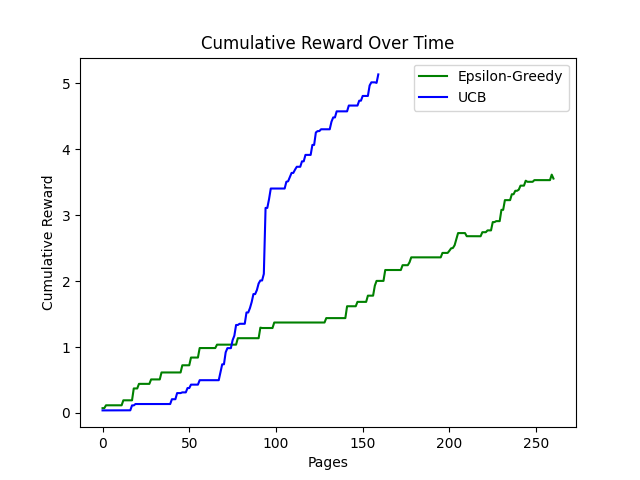
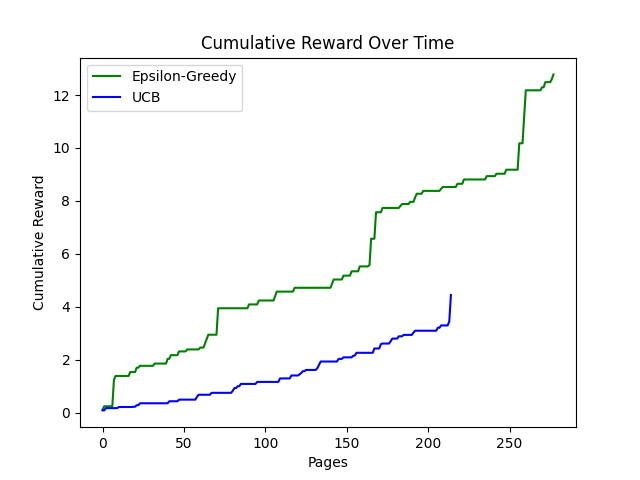
25.10.2024_09.15

diff --git a/webpage_crawler.py b/webpage_crawler.py
@@ -8,6 +8,7 @@ import os
 
 
 
+
 class WikipediaCrawlerWithCMAB:
     def __init__(self, start_uri, subject, size_budget_kib, depth_limit=3, epsilon=0.1, epsilon_decay=0.99, min_epsilon=0.05):
         """
@@ -45,7 +46,7 @@ class WikipediaCrawlerWithCMAB:
             return None
         
     #-----------------------------------------------------------
-    # Extracting  valid Wikipedia links from the page.
+    # Extracting valid Wikipedia links from the page.
     def extract_wiki_links(self, soup):
         links = []
         for a_tag in soup.find_all('a', href=True):
@@ -59,10 +60,9 @@ class WikipediaCrawlerWithCMAB:
     def get_page_size(self, page_content):
         return len(page_content.encode('utf-8'))
 
-
     #-----------------------------------------------------------
-    def bfs_crawl(self, agent, metrics):
-        """Crawl Wikipedia using BFS and the provided agent (epsilon-greedy or UCB)."""
+    # Crawling using hybrid BFS/DFS methods
+    def bfs_crawl(self, agent, metrics, high_similarity_threshold=0.2):
 
         # Initialize a queue for BFS: each element is a tuple (uri, depth)
         queue = deque([(self.start_uri, 0)])
@@ -82,37 +82,32 @@ class WikipediaCrawlerWithCMAB:
             remaining_memory = self.size_budget - total_downloaded_size  # In bytes
 
             # If remaining memory is too small, stop all further exploration
-            if remaining_memory < 5 * 1024:  # Arbitrary threshold of 5 KiB
+            if remaining_memory < 4 * 1024:  # threshold of 4 KiB
                 print(f"Stopping all exploration. Remaining memory is too small: {remaining_memory / 1024:.2f} KiB")
-                break  # Stop the BFS if memory is too low
+                break  
 
-            # Calculate URL similarity to the subject
-            # url_similarity = agent.calculate_url_similarity(uri)
-            # if url_similarity < 0.3:  # Arbitrary threshold for URL similarity
-            #     # print(f"Skipping page {uri} due to low URL similarity ({url_similarity:.2f})")
-            #     metrics['skipped_count'] += 1
-                
-
+            # Calculate URL (title) similarity to the subject
+            url_similarity = agent.calculate_url_similarity(uri)
+            print(f"Title similarity for {uri}: {url_similarity}")
 
             # Fetch the content of the page
             soup = self.fetch_page_content(uri)
             if not soup:
-                continue  # Skip this page if it couldn't be fetched
+                continue  
 
             page_text = soup.get_text()
             page_size = self.get_page_size(page_text)
 
             # If the page is too large to fit into remaining memory, skip downloading it
             if page_size > remaining_memory:
-                print(f"Skipping page {uri} (size: {page_size / 1024:.2f} KiB) due to insufficient remaining memory: {remaining_memory / 1024:.2f} KiB")
                 metrics['skipped_count'] += 1
                 continue
 
-            # Calculate similarity to the subject (context)
-            similarity = agent.calculate_similarity(page_text)
+            # Calculate content similarity to the subject (context)
+            content_similarity = agent.calculate_similarity(page_text)
 
-            # Get the action from the agent
-            action = agent.choose_action(page_text)
+            # Get the action from the agent considering both title and content similarity
+            action = agent.choose_action(content_similarity, url_similarity)
 
             # Allow visiting pages but only download them once
             if action == 'download' and uri not in self.visited_uris and total_downloaded_size + page_size <= self.size_budget:
@@ -120,25 +115,37 @@ class WikipediaCrawlerWithCMAB:
                 self.visited_uris.add(uri)
 
                 metrics['downloaded_count'] += 1
-                metrics['downloaded_pages'].append((uri, page_text))  # Track downloaded pages
+                metrics['downloaded_pages'].append((uri, page_text))  
 
                 # Print downloaded size and remaining memory
                 print(f"Downloaded: {uri} (size: {page_size / 1024:.2f} KiB), Remaining memory: {(remaining_memory - page_size) / 1024:.2f} KiB")
 
                 # Track similarity for downloaded pages
-                metrics['similarity_scores'].append(similarity)
+                metrics['similarity_scores'].append(content_similarity)
 
+                # If the page is highly relevant, explore links from it in a DFS manner
+                if url_similarity > high_similarity_threshold :
+                    print(f"High similarity detected ({url_similarity:.2f}) for {uri}. Going deeper...")
+                    sub_links = self.extract_wiki_links(soup)
+                    # Push sub-links with incremented depth to a temporary stack for DFS
+                    stack = [(link, current_depth + 1) for link in sub_links]
+                    
+                    while stack:
+                        sub_uri, sub_depth = stack.pop()  # DFS exploration
+                        if sub_depth <= self.depth_limit and sub_uri not in self.visited_uris:
+                            queue.appendleft((sub_uri, sub_depth))  # Add to the front of the queue
             else:
                 metrics['skipped_count'] += 1
 
             # Extract valid Wikipedia links from the current page
-            links = self.extract_wiki_links(soup)
-            # Enqueue all links found on this page with an incremented depth
-            for link in links:
-                queue.append((link, current_depth + 1))
+            if content_similarity <= high_similarity_threshold:  # Regular BFS for less relevant links
+                links = self.extract_wiki_links(soup)
+                # Enqueue all links found on this page with an incremented depth
+                for link in links:
+                    queue.append((link, current_depth + 1))
 
             # Update rewards and track cumulative rewards
-            agent.update_rewards(action, similarity)
+            agent.update_rewards(action, content_similarity)
             if action == 'download':
                 if metrics['cumulative_rewards']:
                     metrics['cumulative_rewards'].append(metrics['cumulative_rewards'][-1] + agent.rewards[action][-1])
@@ -148,10 +155,8 @@ class WikipediaCrawlerWithCMAB:
                 # If action is 'skip', append the last cumulative reward without change
                 metrics['cumulative_rewards'].append(metrics['cumulative_rewards'][-1])
 
-
-
-
     #-----------------------------------------------------------
+    # The function to run epsilon_greedy
     def run_epsilon_greedy(self, epsilon, epsilon_decay, min_epsilon):
         print(".................................Running Epsilon-Greedy Agent.................................")
         epsilon_greedy_agent = EpsilonGreedyAgent(self.subject, epsilon, epsilon_decay, min_epsilon)
@@ -159,6 +164,7 @@ class WikipediaCrawlerWithCMAB:
         print(f"\nEpsilon-Greedy Agent: Downloaded {self.metrics_eg['downloaded_count']} pages.")
 
     #-----------------------------------------------------------
+    # The function to run ucb
     def run_ucb(self):
         print(".................................Running UCB Agent.................................")
         ucb_agent = UCBAgent(self.subject)
@@ -166,6 +172,18 @@ class WikipediaCrawlerWithCMAB:
         print(f"\nUCB Agent: Downloaded {self.metrics_ucb['downloaded_count']} pages.")
 
     #-----------------------------------------------------------
+    # Ploting and Saving the plots (Do not show)
     def plot_results(self):
         save_plots(self.metrics_eg, self.metrics_ucb)
+
+
+
+    #-------------------------------------------------------------
+    # The function to show the downloaded results. 
+    def display_downloaded_pages(self):
+        print("\n--- Downloaded Pages Summary ---")
+        for i, (uri, content) in enumerate(self.metrics_eg['downloaded_pages'], start=1):
+            print(f"{i}. Topic: {uri}")
+            print(f"   Content (first 500 characters):\n   {content[:500]}")
+            print("-" * 80)
 

diff --git a/cmab_epsilon_greedy.py b/cmab_epsilon_greedy.py
@@ -22,19 +22,27 @@ class EpsilonGreedyAgent:
         # Encode the subject into embeddings
         subject_embedding = self.model.encode(self.subject, convert_to_tensor=True)
 
-        # Encode the context into embeddings
-        content_tokens = page_content.split()  
-        first_chunk = " ".join(content_tokens[:chunk_size])  # Take the first chunk
-        content_embedding = self.model.encode([first_chunk], convert_to_tensor=True)
+        # Split the content into chunks to avoid memory overload (optional step if needed)
+        content_tokens = page_content.split()
+        num_chunks = len(content_tokens) // chunk_size + 1
+        
+        # Accumulate similarities for all chunks
+        total_similarity = 0.0
+        for i in range(num_chunks):
+            chunk = " ".join(content_tokens[i * chunk_size:(i + 1) * chunk_size])
+            content_embedding = self.model.encode([chunk], convert_to_tensor=True)
 
-        # Calculate the cosine similarity between subject and content embeddings
-        similarity = util.pytorch_cos_sim(subject_embedding, content_embedding)
+            # Calculate the cosine similarity for the chunk
+            similarity = util.pytorch_cos_sim(subject_embedding, content_embedding).item()
 
-        # Calculate the cosine similarity between subject and content embeddings
-        similarity = util.pytorch_cos_sim(subject_embedding, content_embedding)
-        single_similarity = similarity.item()
-        print(f"Similarity score between the subject and the first chunk of the page content: {single_similarity}")
-        return single_similarity
+            # Add similarity to the total
+            total_similarity += similarity
+
+        # Normalize the total similarity by the number of chunks to get the average similarity
+        avg_similarity = total_similarity / num_chunks
+        # print(f"Average similarity score between the subject and the page content: {avg_similarity}")
+
+        return avg_similarity
     
     #-----------------------------------------------------------
     # The function to check the similarity of uri with subject. 
@@ -49,22 +57,32 @@ class EpsilonGreedyAgent:
 
     #-----------------------------------------------------------
     # The function for choosing action by agnet.
-    def choose_action(self, page_content):
+    def choose_action(self, content_similarity, url_similarity):
         if random.random() < self.epsilon:
             action = random.choice(['download', 'skip'])
         else:
             download_reward = np.mean(self.rewards['download']) if self.rewards['download'] else 0
             skip_reward = np.mean(self.rewards['skip']) if self.rewards['skip'] else 0
             action = 'download' if download_reward >= skip_reward else 'skip'
-        # decaying the epsilon    
-        self.epsilon = max(self.min_epsilon, self.epsilon * self.epsilon_decay)
-        return action
 
+            # Decaying the epsilon    
+            self.epsilon = max(self.min_epsilon, self.epsilon * self.epsilon_decay)
+            
+     
+        # If the title similarity is below a certain threshold, always skip
+        if url_similarity < 0.2:
+            action = 'skip'
+        
+        return action
 
     #-----------------------------------------------------------
     # The function for calculting the reward for agent's action.
     def update_rewards(self, action, similarity):
-        if action == 'download' and similarity >= 0.3:
+        if action == 'download' and similarity > 0.3:
+            reward = 1
+        elif action == 'download' and similarity > 0:
+            reward = similarity
+        elif action == 'download' and similarity < 0:
             reward = similarity
         else:
             reward = 0

diff --git a/cmab_ucb.py b/cmab_ucb.py
@@ -21,19 +21,27 @@ class UCBAgent:
         # Encode the subject into embeddings
         subject_embedding = self.model.encode(self.subject, convert_to_tensor=True)
 
-        # Encode the context into embeddings
-        content_tokens = page_content.split()  
-        first_chunk = " ".join(content_tokens[:chunk_size])  # Take the first chunk
-        content_embedding = self.model.encode([first_chunk], convert_to_tensor=True)
+        # Split the content into chunks to avoid memory overload (optional step if needed)
+        content_tokens = page_content.split()
+        num_chunks = len(content_tokens) // chunk_size + 1
+        
+        # Accumulate similarities for all chunks
+        total_similarity = 0.0
+        for i in range(num_chunks):
+            chunk = " ".join(content_tokens[i * chunk_size:(i + 1) * chunk_size])
+            content_embedding = self.model.encode([chunk], convert_to_tensor=True)
 
-        # Calculate the cosine similarity between subject and content embeddings
-        similarity = util.pytorch_cos_sim(subject_embedding, content_embedding)
+            # Calculate the cosine similarity for the chunk
+            similarity = util.pytorch_cos_sim(subject_embedding, content_embedding).item()
 
-        # Calculate the cosine similarity between subject and content embeddings
-        similarity = util.pytorch_cos_sim(subject_embedding, content_embedding)
-        single_similarity = similarity.item()
-        print(f"Similarity score between the subject and the first chunk of the page content: {single_similarity}")
-        return single_similarity
+            # Add similarity to the total
+            total_similarity += similarity
+
+        # Normalize the total similarity by the number of chunks to get the average similarity
+        avg_similarity = total_similarity / num_chunks
+        # print(f"Average similarity score between the subject and the page content: {avg_similarity}")
+
+        return avg_similarity
 
 
 
@@ -53,7 +61,7 @@ class UCBAgent:
     #-----------------------------------------------------------
     # make decision based on the highest UCB value
     # The UCB value is computed as the sum of the average reward and a confidence interval.
-    def choose_action(self, page_content):
+    def choose_action(self, content_similarity, url_similarity):
         self.t += 1
         ucb_values = {}
         for action in ['download', 'skip']:
@@ -63,14 +71,22 @@ class UCBAgent:
             else:
                 mean_reward = np.mean(self.rewards[action]) if self.rewards[action] else 0
                 ucb_values[action] = mean_reward + np.sqrt(2 * np.log(self.t) / count)
+        
+        # If the title similarity is below a certain threshold, always skip
+        if url_similarity < 0.2:
+            return 'skip'  
+        
         return max(ucb_values, key=ucb_values.get)
-
 
 
     #-----------------------------------------------------------
     # The function for calculting the reward for agent's action.
     def update_rewards(self, action, similarity):
-        if action == 'download' and similarity >= 0.3:
+        if action == 'download' and similarity > 0.3:
+            reward = 1
+        elif action == 'download' and similarity > 0:
+            reward = similarity
+        elif action == 'download' and similarity < 0:
             reward = similarity
         else:
             reward = 0

diff --git a/main.py b/main.py
@@ -6,13 +6,13 @@ def main():
     It initializes the crawler, sets parameters, and runs both epsilon-greedy 
     and UCB RL agents.
     """
-    start_uri = '/wiki/Reinforcement_learning'
-    subject = 'artificial Intelligence'
-    size_budget_kib = 5 * 1024  # = KiB
+    start_uri = '/wiki/artificial Intelligence'
+    subject = 'University'
+    size_budget_kib = 2 * 1024  # = KiB
 
     epsilon = 1  
     epsilon_decay = 0.999
-    min_epsilon = 0.05  
+    min_epsilon = 0.1 
 
     # Initialize Wikipedia crawler with CMAB
     crawler = WikipediaCrawlerWithCMAB(start_uri, subject, size_budget_kib)
@@ -20,10 +20,12 @@ def main():
     # Run epsilon-greedy CMAB agent
     print("______________________Running epsilon greedy RL agent _______________________________")
     crawler.run_epsilon_greedy(epsilon, epsilon_decay, min_epsilon)
+    # crawler.display_downloaded_pages()
 
     # Run UCB CMAB agent
     print("______________________Running UCB RL agent _______________________________")
     crawler.run_ucb()
+    # crawler.display_downloaded_pages()
 
     # Plot the results after running both agents
     crawler.plot_results()
